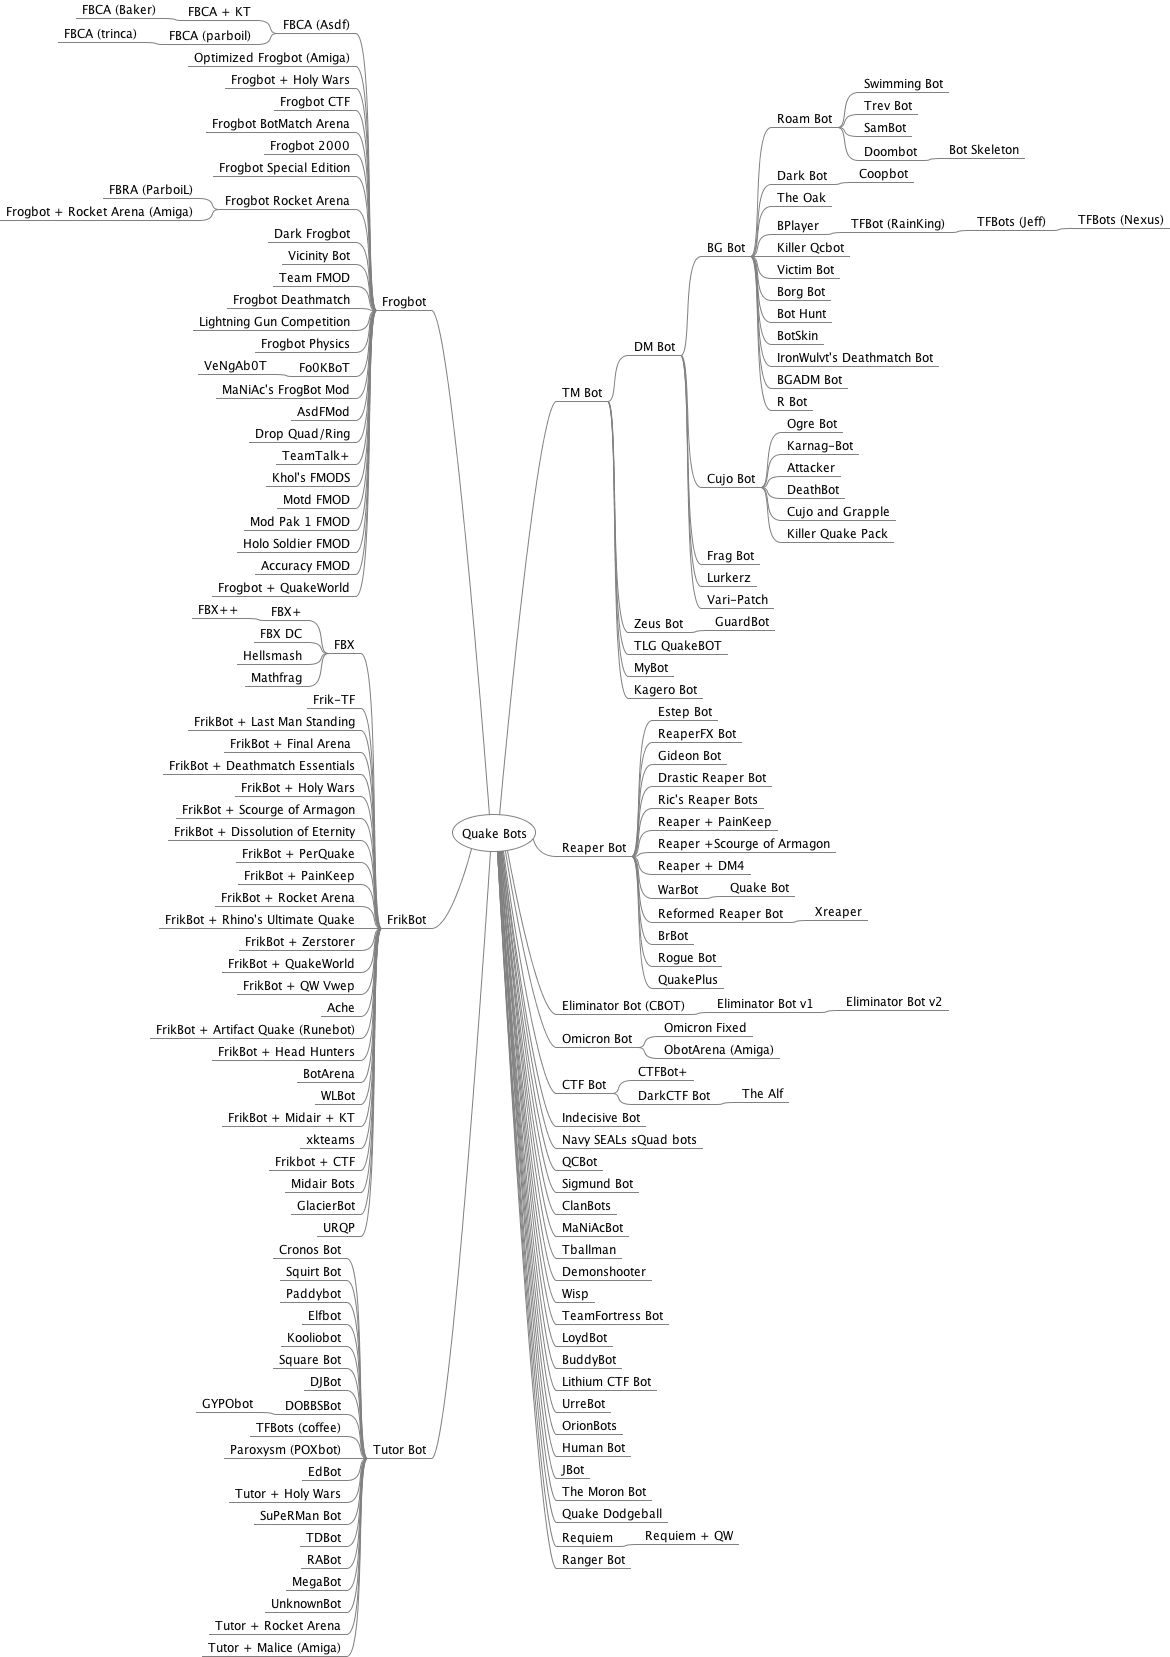
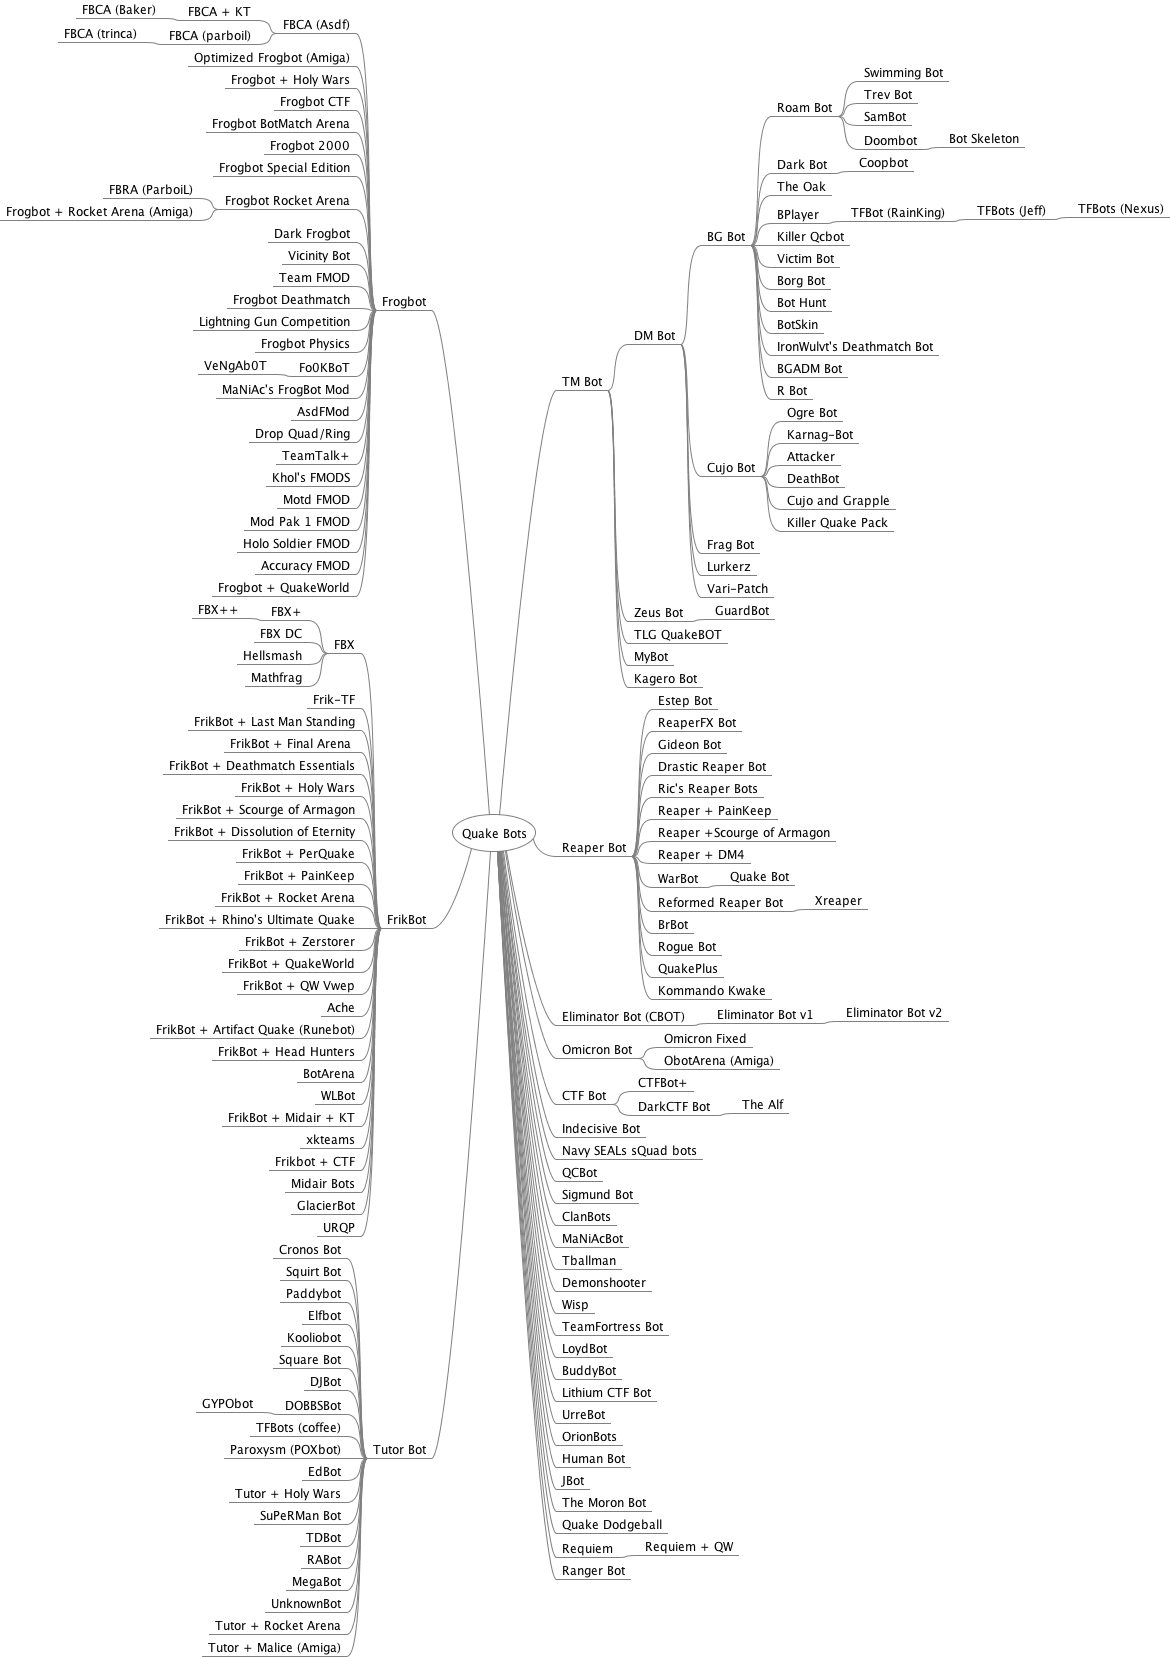
Added Kommando Kwake

diff --git a/research/mindmap/QuakeBots.mm b/research/mindmap/QuakeBots.mm
@@ -69,6 +69,7 @@
 <node CREATED="1624403765092" ID="ID_883855002" MODIFIED="1624404046818" TEXT="BrBot"/>
 <node CREATED="1625027149278" ID="ID_856802350" MODIFIED="1625027149964" TEXT="Rogue Bot"/>
 <node CREATED="1630363566292" ID="ID_268031845" MODIFIED="1630363567381" TEXT="QuakePlus"/>
+<node CREATED="1630449048881" ID="ID_235069832" MODIFIED="1630449049734" TEXT="Kommando Kwake"/>
 </node>
 <node CREATED="1622759700522" ID="ID_678656323" MODIFIED="1622761575130" POSITION="right" TEXT="Eliminator Bot (CBOT)">
 <node CREATED="1622760633864" ID="ID_468304243" MODIFIED="1622760636889" TEXT="Eliminator Bot v1">

diff --git a/README.md b/README.md
@@ -131,6 +131,7 @@ KarNag Bot | Ken Madlener | [knbot45.zip](bin/knbot45.zip) ([txt](bin/knbot45.tx
 Khol's FMODS | "Khol" | kfmod.zip
 Killer Qcbot | William  Ravaine aka "Killer-Sub" | [kqcbots095b.zip](bin/kqcbots095b.zip) ([txt](bin/kqcbots095b.txt))<br>kqcbotsource.zip
 Killer Quake Pack (KQP) | Howard Roy aka "Solo" | [kqp220z.zip](bin/kqp220z.zip) ([txt](bin/kqp220z.txt))<br>[kqp210z.zip](bin/kqp210z.zip)<br>[kqp200z.zip](bin/kqp200z.zip) ([txt](bin/kqp200z.txt))<br>[kqp100.zip](bin/kqp100.zip)<br>[killer90.zip](bin/killer90.zip) ([txt](bin/killer90.txt))<br>killer87.zip<br>killer86b.zip<br>killer86.zip<br>[killer85.zip](bin/killer85.zip)<br>killer80.zip
+Kommando Kwake | ? | kok21.zip<br>kok2.zip
 Kooliobot | Robert de Heus aka "Koolio" | [kooliobot.zip](bin/kooliobot.zip)<br>koolio.zip
 Lightning Gun Competition (LGC) | Phil Romov aka "peheyele" | [lgc3.zip](bin/lgc3.zip)<br>[lgc2c.zip](bin/lgc2c.zip)<br>[lgc2.zip](bin/lgc2.zip)<br>[lgc.zip](bin/lgc.zip)
 Lithium CTF Bot | Juan Ignacio Rava aka "Johnny" | [lith091c.zip](bin/lith091c.zip)
